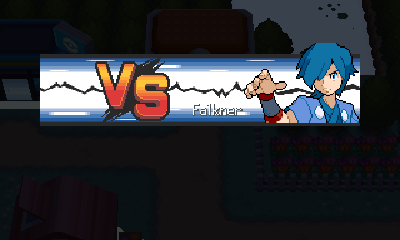
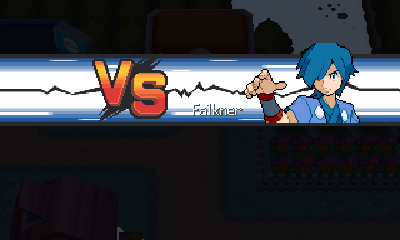
Field: continue BG1-3 edge columns over the wide sides (#19)
The wild-grass wipe's rectangles and a Gym Leader's VS band are drawn
into 256-column text BGs; FIELD_A's screen-relative FILL rows carry their
edge columns out to 400 px. The overworld's 2D is inset from the edges,
so the plain field is unchanged. Verified in LOTUS: r29 wild wipe (frame
6250), Falkner's VS band (frame 4110), plain field (frame 3600).

diff --git a/src/runtime/kj_layouts.c b/src/runtime/kj_layouts.c
@@ -101,6 +101,15 @@ static const kj_layout_row EDGE_SIDES[] = {
     FILL(0xF, 0, 192, -32, 0, 0), FILL(0xF, 0, 192, 256, 288, 255),
 };
 
+/* Field top (#19): the overworld's 2D (BG1-3) is empty at the screen edges
+ * except while an encounter effect covers it (the wild wipe's rectangles,
+ * a Gym Leader's VS band) - its edge columns continue over the wide 3D.
+ * Message windows and menus are inset from the edges, so a transparent
+ * edge column leaves the sides as they were. */
+static const kj_layout_row FIELD_A[] = {
+    FILL(0xE | KJ_LAYOUT_SCREEN, 0, 192, -32, 0, 0), FILL(0xE | KJ_LAYOUT_SCREEN, 0, 192, 256, 288, 255),
+};
+
 typedef struct screen_layout {
     uint32_t id;
     const kj_layout_row *rows[2];
@@ -108,6 +117,7 @@ typedef struct screen_layout {
 } screen_layout;
 
 static const screen_layout LAYOUTS[] = {
+    { KJ_SCREEN_FIELD, { FIELD_A, NULL }, { N(FIELD_A), 0 } },
     { KJ_SCREEN_BATTLE, { BATTLE_A, NULL }, { N(BATTLE_A), 0 } },
     { KJ_SCREEN_SUMMARY, { SUMMARY_A, NULL }, { N(SUMMARY_A), 0 } },
     { KJ_SCREEN_PARTY, { NULL, PARTY_B }, { 0, N(PARTY_B) } },

diff --git a/docs/widescreen-screens.md b/docs/widescreen-screens.md
@@ -21,15 +21,19 @@ States: not attempted / basic edge fill / layout implemented / authored WideArt 
 | pcbox | B | 5 | layout implemented | info panel flush left, title bar and panel run on; box switching (R) leaves the top stable (`...wide-pcbox.png`) |
 | naming, flymap, signature | A/B | 2 | basic edge fill | not captured on the test save (needs Fly / a rename / a signature); same FILL rows as the bag's verified backdrop |
 | battle (wild, single) | A | 8 | layout implemented | HP boxes to the outer edges (OBJs moved at emission, DS OAM untouched), dialogue frame and terrain to both edges; a Tackle turn and the return to the field leave no stale panel (`...wide-battle.png`, `...wide-battle-turn.png`); trainer intro, double battle (opponent panels at the left edge, player panels at the right), cave and water backdrops captured via the `battle:` script line (`...wide-battle-trainer.png`, `...-double.png`, `...-cave.png`, `...-water.png`); a Gym Leader and an end-to-end switch/faint/capture run not yet captured |
-| field, title, intro, others | - | 0 | not attempted | DS picture centred (#14/#19) |
+| field | A | 2 | layout implemented | 3D drawn wide; BG1-3 edge columns continue (encounter wipes, VS band) |
+| title, intro, others | - | 0 | not attempted | DS picture centred (#14/#19) |
 
 Field encounter wipes (#19): the field's 3D runs wide but its 2D is the DS's
 256 columns. Window wipes (trainer effects, `encounter_effect_wipe.c`) now
 extend edge-touching windows over the side columns on the top screen when
-BG0 is 3D. The wild-grass wipe (`encounter_effect_wild.c`, `RectTrail`) fills
-black rectangles into a 256-column text BG instead of using windows, so its
-bars still stop at the DS edge (captured at r29 frame 6250); covering it needs
-a field layout rule active only during the effect.
+BG0 is 3D. The wild-grass wipe (`encounter_effect_wild.c`, `RectTrail`) and
+a Gym Leader's VS band draw into 256-column text BGs instead; the field's top
+layout (`FIELD_A`) continues BG1-3's screen-edge columns over the sides, so
+both reach 400 px (`...wide-wild-wipe.png`, r29 frame 6250;
+`...wide-vs-wipe.png`, Falkner frame 4110). The overworld's own 2D is inset
+from the edges, so its sides stay transparent (no change on the plain field).
+The VS wipe's BLDY darkening runs under the same wide scissor.
 
 Navigation verified with screen transitions in the log: field > party >
 summary > party > field, field > bag > field, field > pokegear > gearphone >
